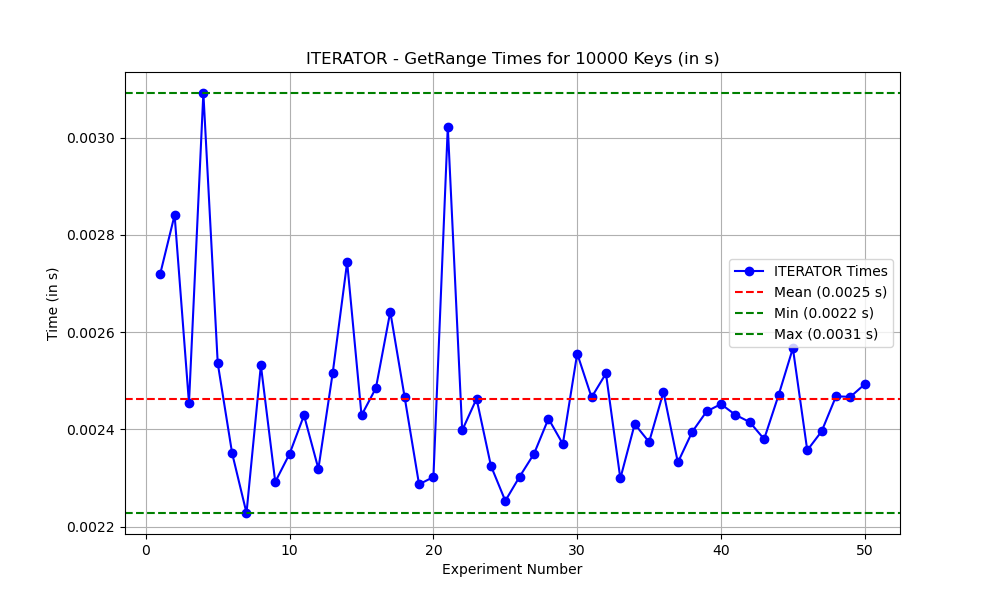
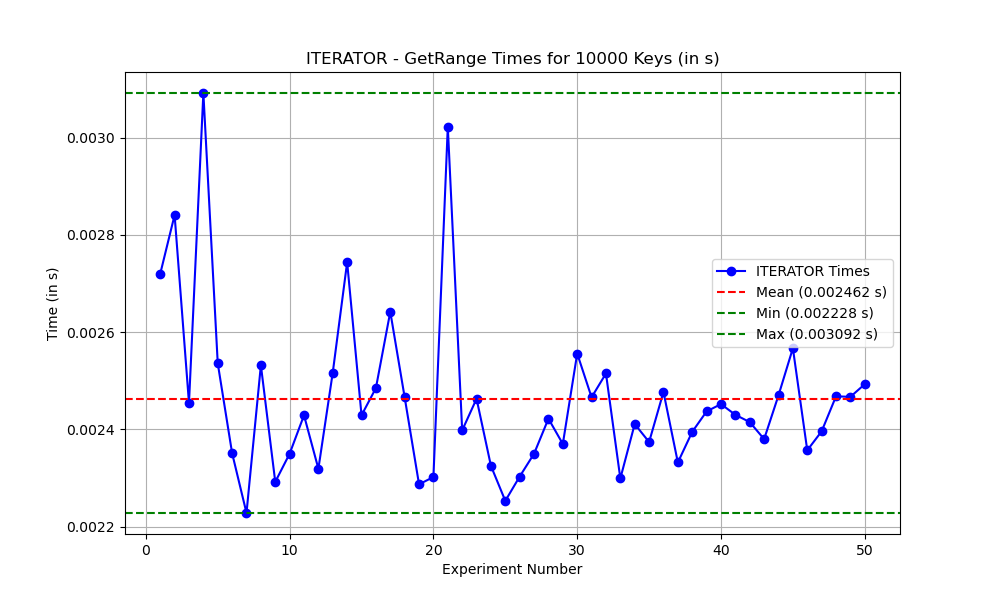
data

Changed region(s): [[0.713, 0.42, 0.899, 0.57]]

diff --git a/task1/README.md b/task1/README.md
@@ -137,14 +137,14 @@ that executing getrange on each of those 10 ranges returns exactly 1k key-value 
 
     |              | SingleGetRange | SingleVsMultiRanges |
     |--------------|----------------|---------------------|
-    | Key Creation | 11.0421        | 11.0621             |
-    | WANT_ALL     | 0.0047         | 0.0047              |
-    | ITERATOR     | 0.0031         | 0.0038              |
-    | EXACT        | 0.0029         | 0.0033              |
-    | SMALL        | 0.2833         | 0.0588              |
-    | MEDIUM       | 0.0799         | 0.0198              |
-    | LARGE        | 0.0215         | 0.0074              |
-    | SERIAL       | 0.0042         | 0.0040              |
+    | Key Creation | 23.9217        | 24.8089             |
+    | WANT_ALL     | 0.0069         | 0.0060              |
+    | ITERATOR     | 0.0057         | 0.0055              |
+    | EXACT        | 0.0058         | 0.0057              |
+    | SMALL        | 0.3314         | 0.0705              |
+    | MEDIUM       | 0.0940         | 0.0229              |
+    | LARGE        | 0.0294         | 0.0096              |
+    | SERIAL       | 0.0064         | 0.0060              |
 
 - **Inference**:
     - SMALL, MEDIUM, LARGE streaming modes involve retrieving data in batches. By splitting the data into smaller ranges and issuing multiple parallel requests, each request can operate on a smaller portion of the dataset. This reduces the time needed for each request, as parallelism can be leveraged effectively, resulting in better performance compared to issuing a single large request.

diff --git a/task3/README.md b/task3/README.md
@@ -100,14 +100,14 @@ Run the executables which u want to
 
     |              | SingleGetRange | SingleVsMultiRanges |
     |--------------|----------------|---------------------|
-    | Key Creation | 0.024659       | 0.022819            |
-    | WANT_ALL     | 0.000050       | 0.001024            |
-    | ITERATOR     | 0.001443       | 0.001992            |
-    | EXACT        | 0.000599       | 0.001016            |
-    | SMALL        | 0.000031       | 0.001049            |
-    | MEDIUM       | 0.000024       | 0.000984            |
-    | LARGE        | 0.000033       | 0.001030            |
-    | SERIAL       | 0.000217       | 0.001458            |
+    | Key Creation | 0.017994       | 0.021914            |
+    | WANT_ALL     | 0.000186       | 0.001021            |
+    | ITERATOR     | 0.002462       | 0.004632            |
+    | EXACT        | 0.000171       | 0.001042            |
+    | SMALL        | 0.027807       | 0.014098            |
+    | MEDIUM       | 0.007115       | 0.004159            |
+    | LARGE        | 0.001856       | 0.001708            |
+    | SERIAL       | 0.000244       | 0.001081            |
 
 - **Accomplishment**: Successfully created a C code to interact with FoundationDB, and retrieve 10k Key-Value pairs using different streaming modes parallely, and compare with previous task.
 - **SubTask Completion**: The sub-task was fully completed.
